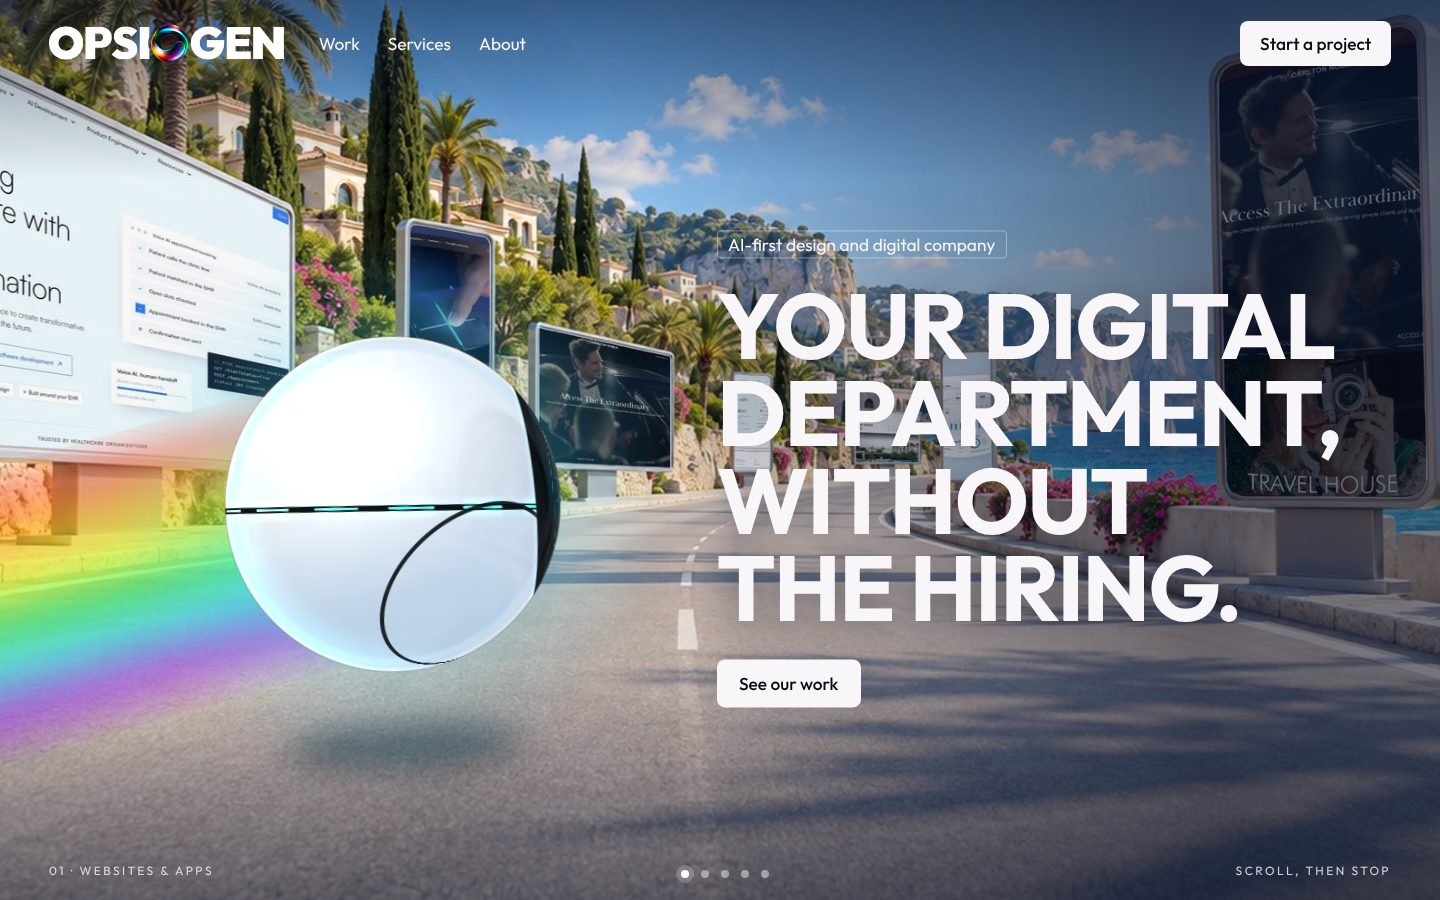
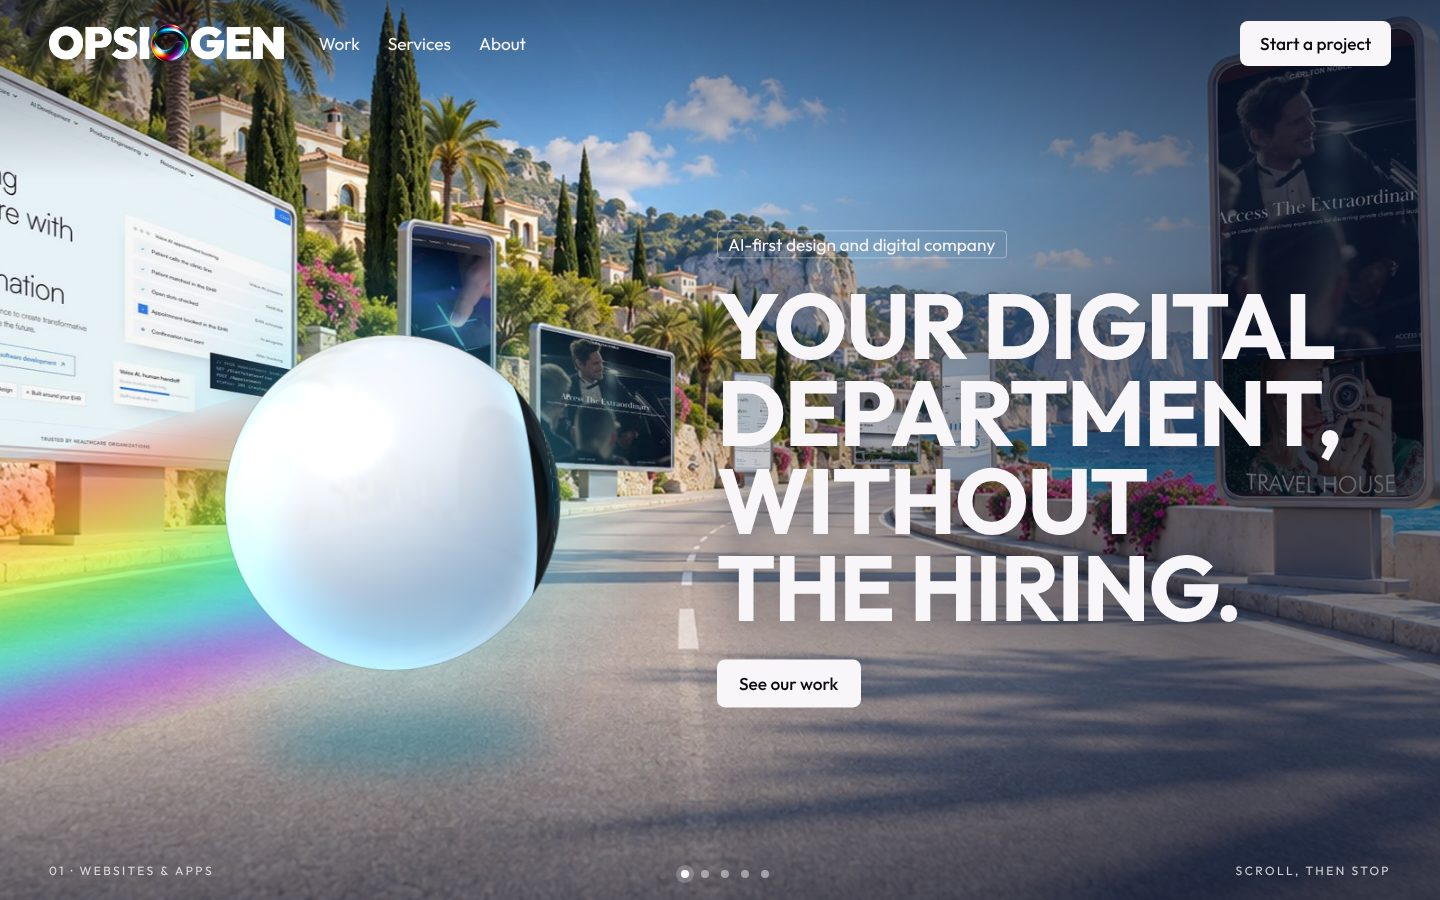
Hero prototype: a clean body with no lines, and a softer cyan glow
Claude-Session: https://claude.ai/code/session_011BdSE2fEeiEv9ZgoYmWAPn

diff --git a/design/hero/orb-proto/index.html b/design/hero/orb-proto/index.html
@@ -42,7 +42,7 @@
   .orb canvas { position: absolute; inset: 0; width: 100%; height: 100%; display: block; }
   .ground { position: absolute; left: 16%; right: 16%; bottom: -24%; height: 13%; border-radius: 50%; background: rgb(10 14 30 / 0.5); filter: blur(16px); }
   .aura { position: absolute; inset: -22%; border-radius: 50%; background: radial-gradient(circle, rgb(70 225 255 / 0.34) 30%, rgb(70 225 255 / 0.12) 52%, rgb(70 225 255 / 0) 70%); will-change: opacity, transform; }
-  .ground { background: rgb(6 40 58 / 0.5); }
+  .ground { background: rgb(0 110 140 / 0.42); left: 10%; right: 10%; height: 15%; filter: blur(20px); }
   .trail { position: absolute; z-index: 3; left: 27%; top: 56%; width: 80vw; height: clamp(120px, 20vw, 330px); transform-origin: 100% 50%; transform: translate(-100%, -50%) rotate(-16deg); opacity: 0; pointer-events: none; filter: blur(14px);
     background: linear-gradient(180deg, rgb(255 60 60 / 0), #ff5a3c 12%, #ffb400 26%, #d8fa01 40%, #01f14c 54%, #00ecfd 68%, #9b1cf0 84%, rgb(155 28 240 / 0));
     -webkit-mask-image: linear-gradient(90deg, transparent, #000 55%, #000 92%, transparent); mask-image: linear-gradient(90deg, transparent, #000 55%, #000 92%, transparent); }
@@ -119,34 +119,20 @@
     "  float c=dot(n,d), ang=acos(clamp(c,-1.,1.));",
     "  vec3 refl=reflect(vec3(0.,0.,-1.),n);",
     "  vec3 env=texture2D(uEnv, vec2(.5+refl.x*.42, .5-refl.y*.42)).rgb;",
-    "  vec3 L=normalize(vec3(-.42,.72,.55)); float lam=max(0.,dot(n,L));",
+    "  vec3 L=normalize(vec3(-.42,.72,.55)); float lam=dot(n,L);",
     "  float fres=pow(1.-n.z,2.4); float E=.64;",                                   // E: the eye's size on the shell
     "  vec3 GL=vec3(.25,.9,1.);",                                                   // the glow: a clear cyan
-    // a bright ceramic body: soft light, cool shade underneath, a faint reflection of the place it is in
-    "  vec3 shell=mix(vec3(.70,.80,.90), vec3(.985,.99,1.), .42+.58*lam);",
-    "  shell=mix(shell, vec3(.62,.76,.88), smoothstep(.1,-.9,n.y)*.45);",
-    "  shell=mix(shell, env*1.05, .03+.26*fres);",
+    // a smooth, unmarked body: bright where the light falls, a soft cool grey-blue where it turns away
+    "  vec3 shell=mix(vec3(.60,.70,.80), vec3(.985,.99,1.), smoothstep(-.35,.95,lam));",
+    "  shell=mix(shell, vec3(.58,.72,.84), smoothstep(.15,-1.,n.y)*.42);",
+    "  shell=mix(shell, env*1.05, .03+.22*fres);",                                   // a faint reflection of the place it is in
     "  vec3 H=normalize(L+vec3(0.,0.,1.)); float sp=max(0.,dot(n,H));",
-    "  shell+=vec3(1.)*(pow(sp,10.)*.16+pow(sp,90.)*.7);",                           // a wide soft sheen and a sharp glint
-    // a clear outer coat: a bright rim with a thin inner edge, as if the body sits inside glass
-    "  shell=mix(shell, vec3(.80,.90,.97), smoothstep(.90,.93,r)*smoothstep(.975,.95,r)*.55);",
-    "  shell=mix(shell, vec3(1.), smoothstep(.955,.985,r)*.5);",
-    "  shell+=GL*smoothstep(.72,1.,r)*smoothstep(.25,-.6,n.x+n.y*.2)*.16;",          // cyan light catching the left edge
-    // the seam round the middle: a dark gap with light inside it
-    "  vec3 m=normalize(up+d*.08); float s=dot(n,m)+.03; float lon=atan(dot(n,rt),dot(n,d));",
-    "  vec3 lit=mix(GL, hue(lon/6.2832+.62), .28);",                                 // mostly cyan, shading gently through our logo's colours
-    "  float dash=smoothstep(.30,.36,fract(lon*2.2+uTime*.04))*smoothstep(.95,.89,fract(lon*2.2+uTime*.04));",
-    "  shell+=lit*smoothstep(.085,.0,abs(s))*.20*(.4+.6*dash);",                     // the glow that spills out of the gap
-    "  shell=mix(shell, vec3(.05,.07,.09), smoothstep(.021,.014,abs(s)));",          // the gap
-    "  shell=mix(shell, lit*1.5+.15, smoothstep(.010,.004,abs(s))*dash);",            // the lit segments inside
-    // one sweeping panel line low on the body, and a faint glowing meridian on the far side
-    "  vec3 ax=normalize(rt*-.70+up*-.62+d*.36); float pl=abs(acos(clamp(dot(n,ax),-1.,1.))-.62);",
-    "  shell=mix(shell, vec3(.05,.07,.09), smoothstep(.017,.008,pl)*.92);",
-    "  float mer=abs(dot(n,normalize(rt*.86+d*.5)));",
-    "  shell+=GL*(smoothstep(.05,.0,mer)*.12+smoothstep(.008,.0,mer)*.5)*smoothstep(-.1,.3,-dot(n,d));",
+    "  shell+=vec3(1.)*(smoothstep(.34,.0,length(n.xy-vec2(-.34,.46)))*.13+pow(sp,90.)*.5);",   // a wide soft sheen and one small glint
+    "  shell=mix(shell, vec3(.90,.96,1.), smoothstep(.78,1.,r)*.28);",              // the glossy edge, with no line in it
+    "  shell+=GL*smoothstep(.5,1.,r)*smoothstep(.35,-.75,n.x*.8+n.y*.6)*.20;",       // cyan light wrapping the lower left edge
+    "  shell+=GL*exp(-pow((ang-E-.10)/.13,2.))*.13;",                                // and a breath of it on the body beside the eye
     "  vec3 col=shell;",
     "  col=mix(col, vec3(.035,.05,.065)+env*.10, smoothstep(E+.11,E+.085,ang));",    // a thick dark rim round the eye
-    "  col+=GL*smoothstep(E+.16,E+.10,ang)*smoothstep(E+.085,E+.11,ang)*.10;",       // a breath of cyan on the body beside it
     // the eye: a dark glass dome with instrument light deep inside
     "  vec3 glass=vec3(.008,.035,.05)+env*(.05+.30*fres);",
     "  vec2 e=vec2(dot(n,rt),dot(n,up))/sin(E); float ed=length(e);",               // inside the eye: 0 centre, 1 edge

diff --git a/LAUNCH-CHECKLIST.md b/LAUNCH-CHECKLIST.md
@@ -42,7 +42,7 @@ Tick items as they are done.
 - [ ] Backup plan, only after the owner confirms: keep the earlier big heading that fills the first screen and put moving work behind it. Two rows of our work tiles (images and short silent loops, mixed widths, one height) drift slowly sideways on the dark band, as on the reference the owner shared (Envato's AI video page). Use our own work and our own layout, not theirs. No image or video credits needed.
 - [ ] Also tried, waiting for the owner's pick: a ribbon of our work cards that lands on a tilted board on scroll (working prototype in `design/hero/cards-proto`, no credits needed), and our own character running through the studio rooms, each room one service (`design/hero/character-lineup.png`, `character-hero-mock.jpg`; needs video credits).
 - [ ] Latest direction from the owner (17 Nov): outdoors only, no studio. A floating sphere character with one glass eye flies through five outdoor worlds, one per service (`design/hero/orb-character-sheet.png`, `orb-hero-mock.jpg`, `worlds-all.jpg`). The worlds were drawn with an earlier octopus stand-in and need redrawing with the sphere. Needs video credits.
-- [ ] Owner's notes on that direction (17 Nov): the character looks ahead at the location while the page scrolls and turns to face the visitor when scrolling stops (working prototype in `design/hero/orb-proto`, the sphere is drawn live in the browser); no logo on the character: a white ceramic sphere with a dark glass eye and a cyan glow in its seam, after the owner's reference picture; no designs on roadside screens, each location shows a service as it appears in real life (`scene-brand-cyclist.png`, `scene-booth.png`).
+- [ ] Owner's notes on that direction (17 Nov): the character looks ahead at the location while the page scrolls and turns to face the visitor when scrolling stops (working prototype in `design/hero/orb-proto`, the sphere is drawn live in the browser); no logo on the character: a smooth white sphere with a dark glass eye and a soft cyan glow, no lines or marks on the body, after the owner's reference picture; no designs on roadside screens, each location shows a service as it appears in real life (`scene-brand-cyclist.png`, `scene-booth.png`).
 - Home today shows the trial picture of the glass studio (day in the light theme, night in the dark theme).
 
 ## Already done (4 November 2026)
